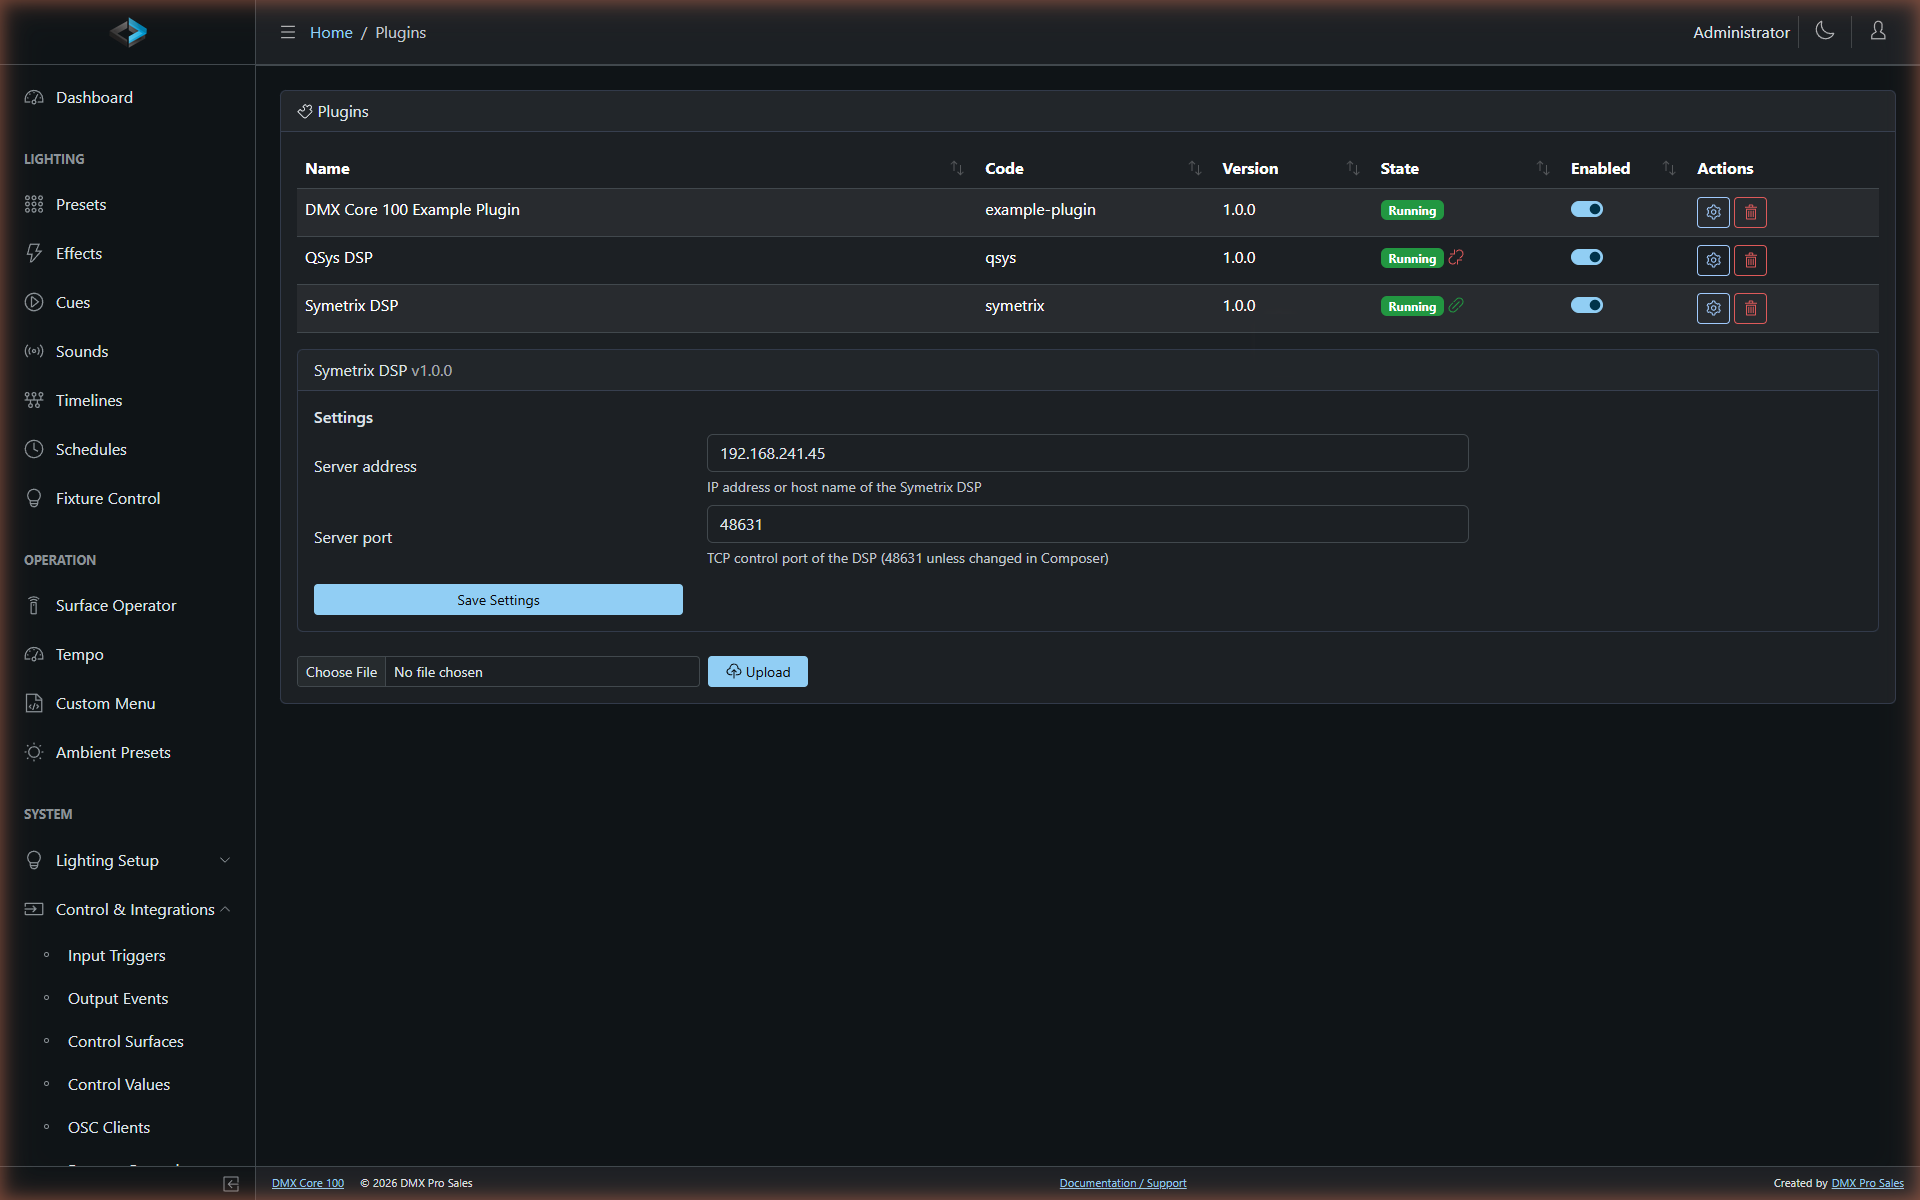
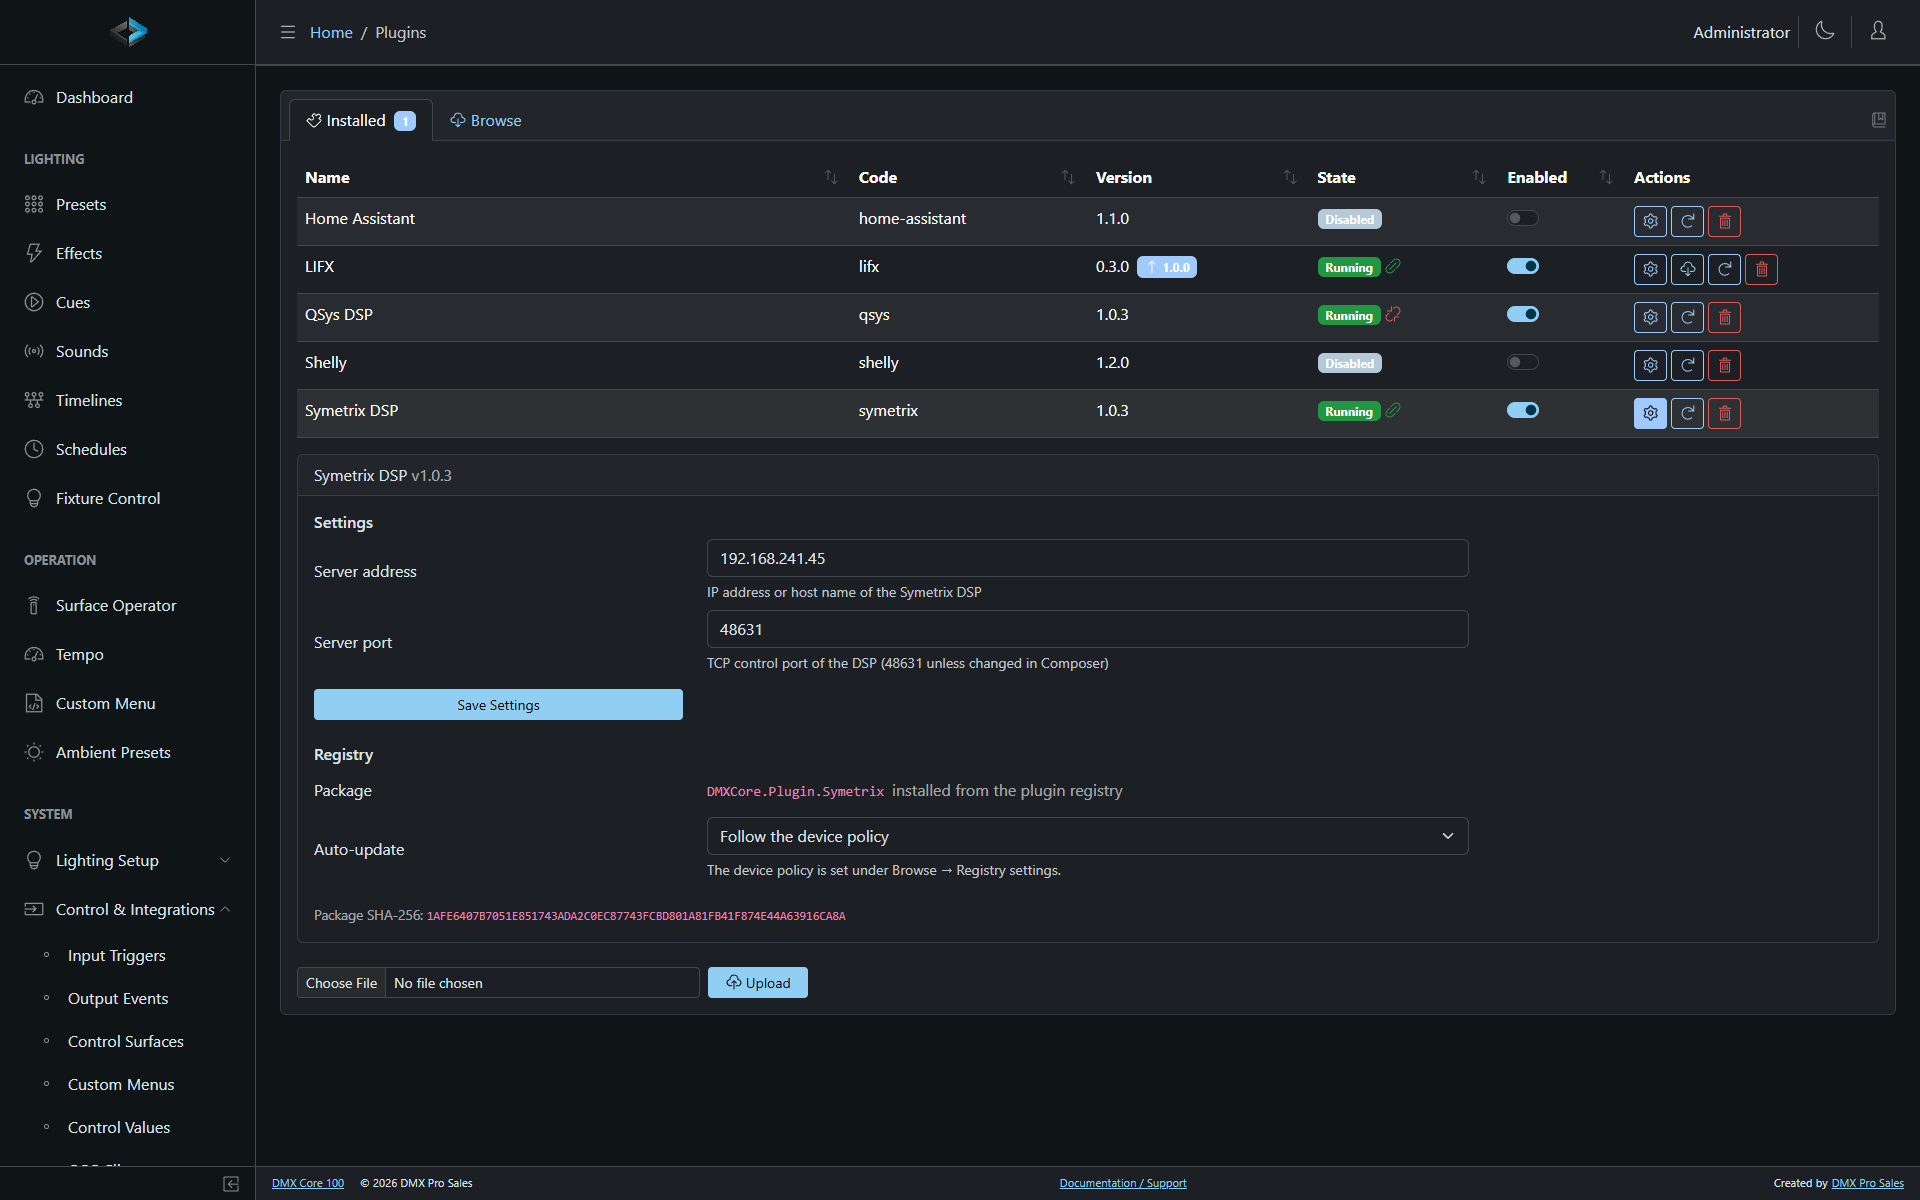
Plugins: refreshed Installed screenshot, new Browse screenshot

diff --git a/src/content/docs/dmx-core-100/integrations/plugins.md b/src/content/docs/dmx-core-100/integrations/plugins.md
@@ -14,7 +14,7 @@ independently of the device software.
 Plugins are managed under **Control & Integrations > Plugins**.
 :::
 
-![Plugins page with the Symetrix DSP settings open](/assets/web/plugins-settings.png)
+![Plugins page, Installed tab, with the Symetrix DSP settings open](/assets/web/plugins-settings.png)
 
 ## Installing a Plugin
 
@@ -22,6 +22,8 @@ Open the **Browse** tab. It lists every plugin available in the registry,
 with a description, the publisher, and links to the plugin's website and
 license. Plugins published by DMX Core carry a **DMX Core** mark. Use the
 search box to filter the list.
+
+![The Browse tab listing the plugins in the registry](/assets/web/plugins-browse.png)
 
 Press **Install** next to a plugin — the device downloads the package,
 verifies it, and starts it right away. When a plugin has several versions,

diff --git a/screenshot-checklist.md b/screenshot-checklist.md
@@ -104,8 +104,8 @@ Use a **fixed browser window** (1440×900 recommended). Enable dark mode with th
 - [ ] Control Values list *(code, kind, mapping, live value)*
 - [ ] OSC Clients list *(source IP, feedback port)*
 - [ ] MQTT settings *(external broker fields)*
-- [ ] Plugins — Installed tab with a plugin's settings open *(replaces plugins-settings.png)*
-- [ ] Plugins — Browse tab *(registry list with DMX Core marks; save as plugins-browse.png)*
+- [x] Plugins — Installed tab with a plugin's settings open *(plugins-settings.png)*
+- [x] Plugins — Browse tab *(plugins-browse.png)*
 - [ ] Cloud tunnel settings
 - [ ] Device Monitor *(monitored + discovered devices)*
 
